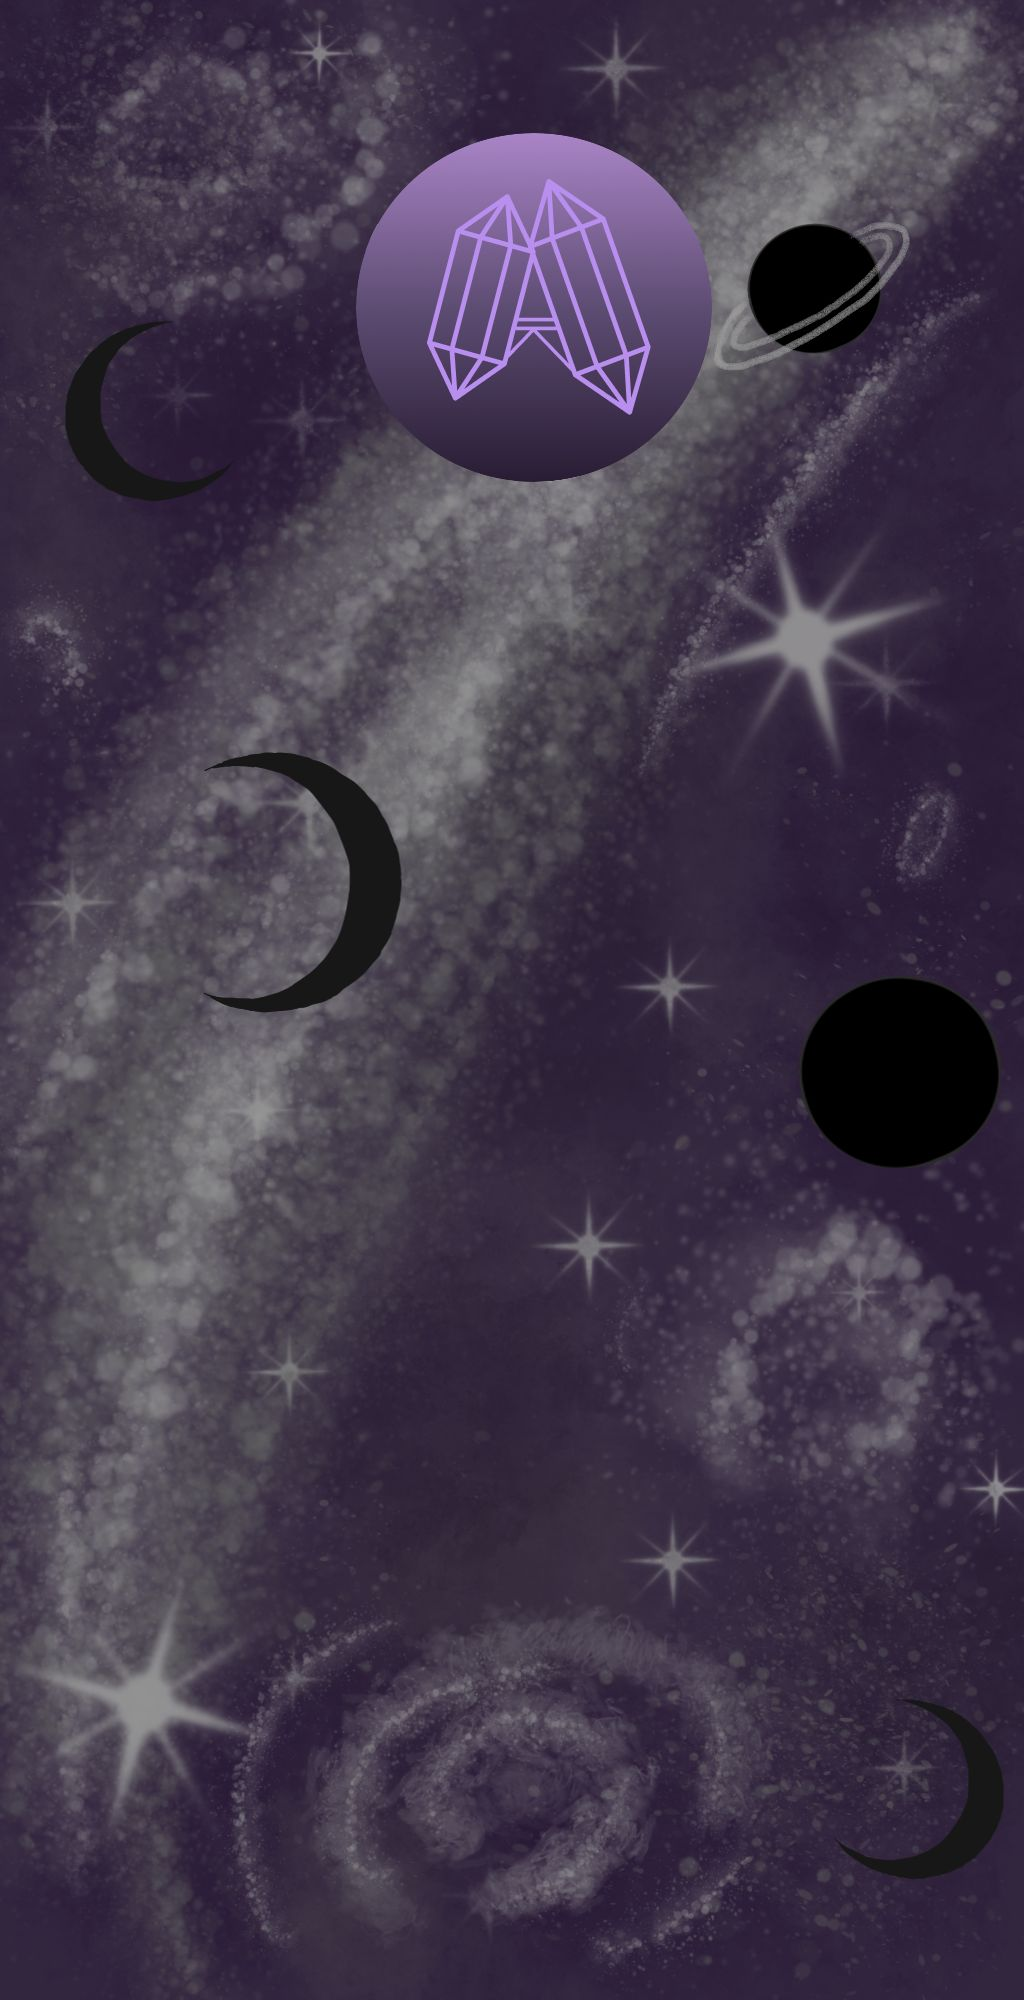
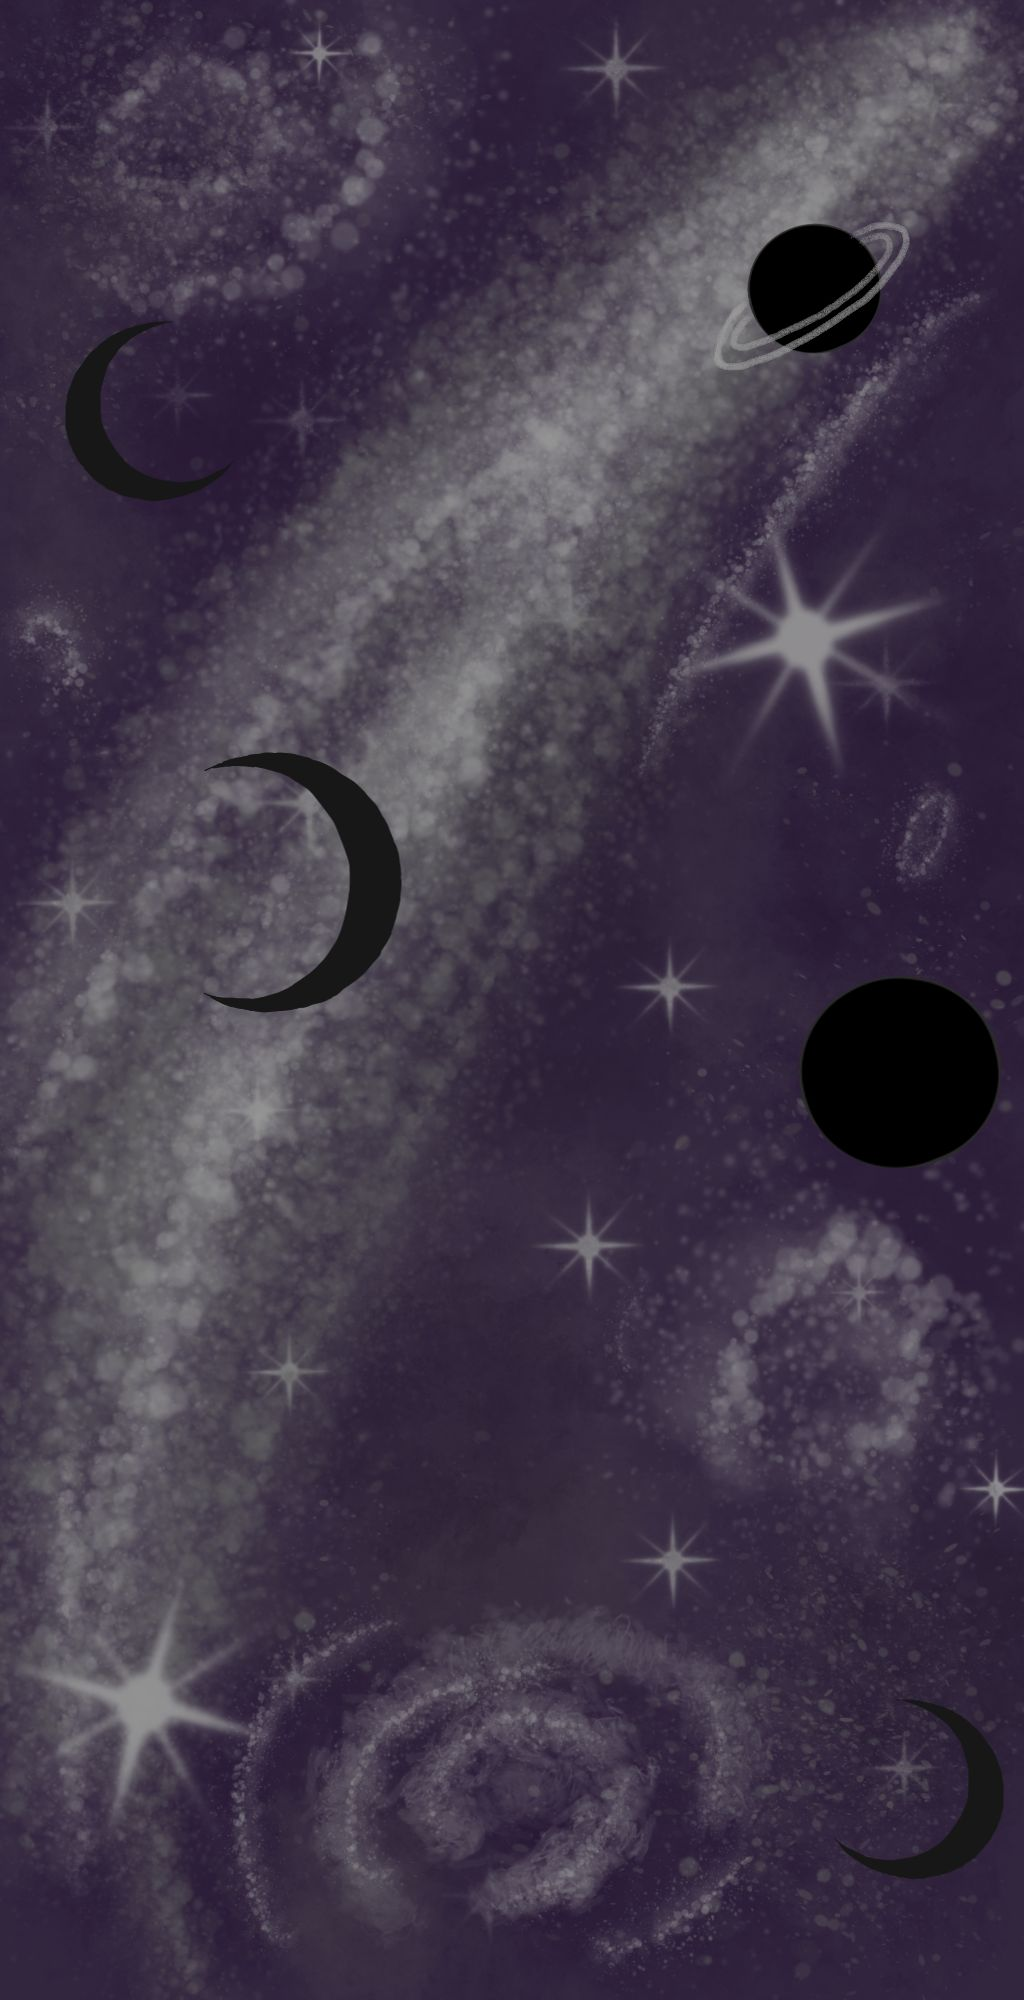
login kuvat

Changed region(s): [[0.3438, 0.062, 0.7188, 0.248]]

diff --git a/app/(tabs)/Login.tsx b/app/(tabs)/Login.tsx
@@ -5,6 +5,7 @@ import {
   ImageBackground,
   Alert,
   ActivityIndicator,
+  Image,
 } from 'react-native';
 import Nappi from '@/components/Button';
 import {
@@ -146,6 +147,10 @@ const LoginScreen: React.FC<LoginScreenProps> = ({ navigation }) => {
         source={require('../../assets/images/bg_lottie.json')}
         resizeMode="cover"
       />
+      <Image
+        source={require('../../assets/images/logo.png')}
+        style={styles.image}
+      ></Image>
       <View style={styles.container}>
         {isSigningIn ? (
           <ActivityIndicator size="large" color="#ffffff" />
@@ -187,6 +192,13 @@ const styles = StyleSheet.create({
     alignItems: 'center',
     justifyContent: 'center',
     marginBottom: '40%',
+  },
+  image: {
+    marginTop: 25,
+    maxHeight: '45%',
+    maxWidth: '50%',
+    alignItems: 'center',
+    justifyContent: 'center',
   },
 });
 
